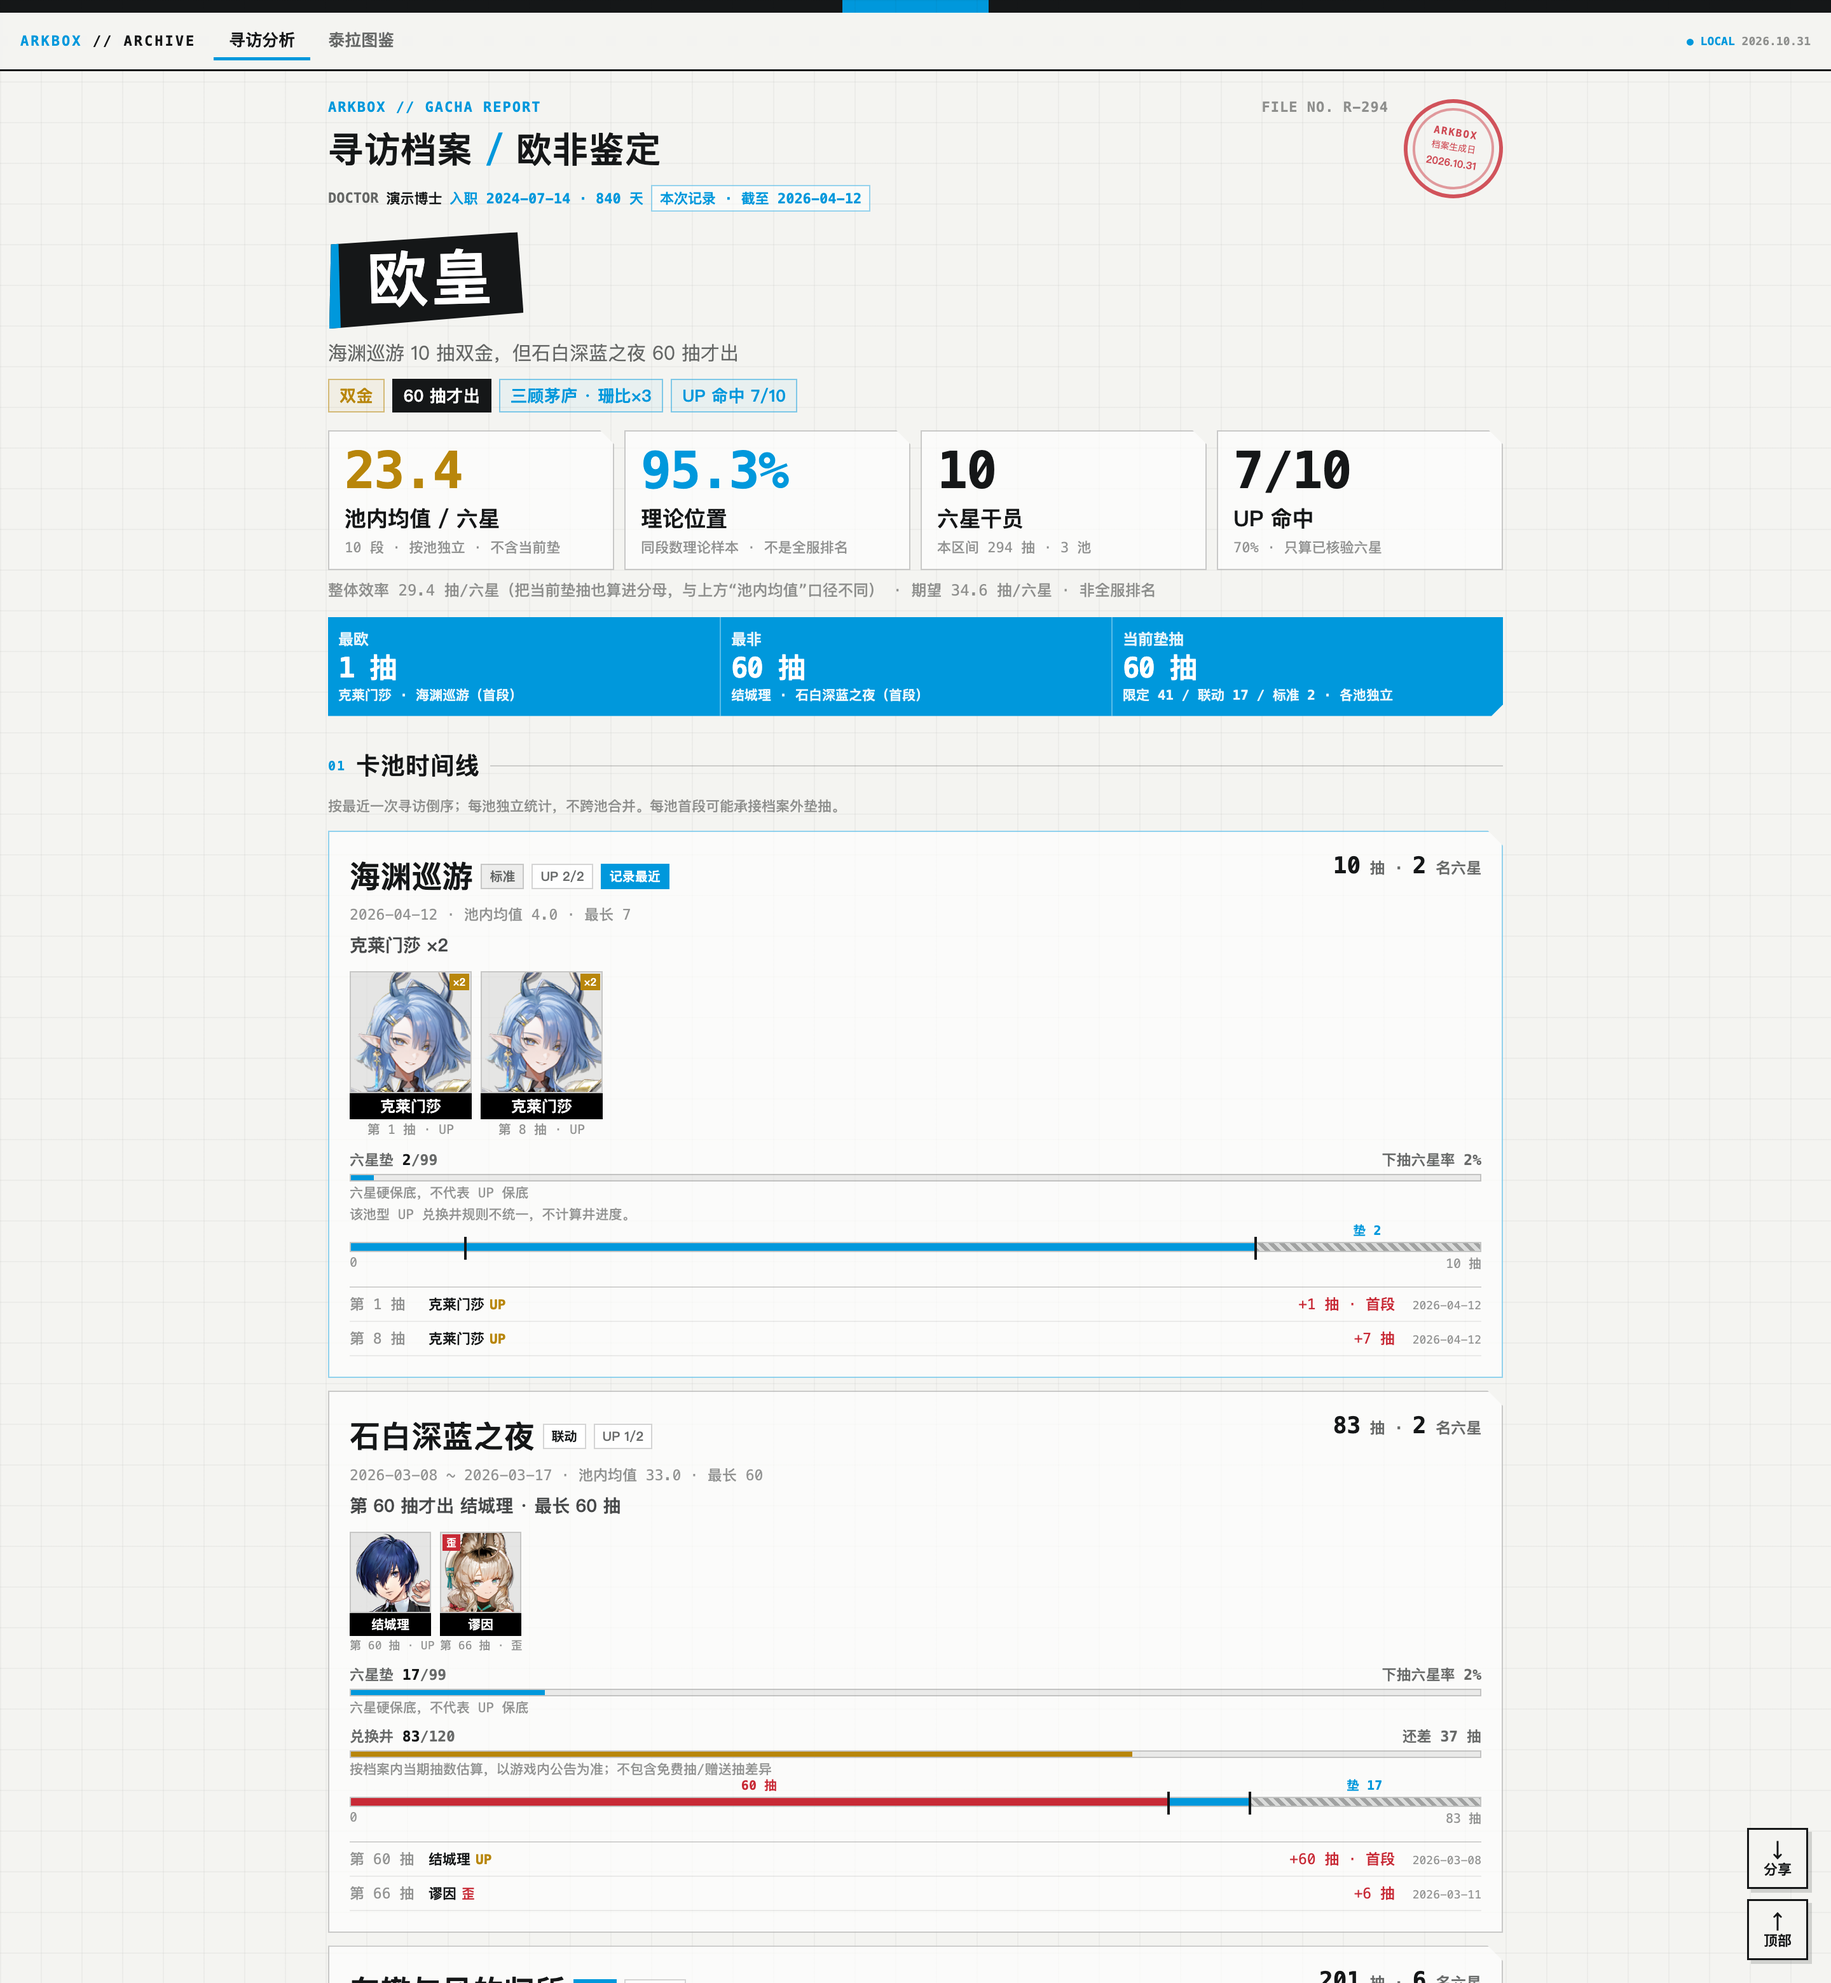
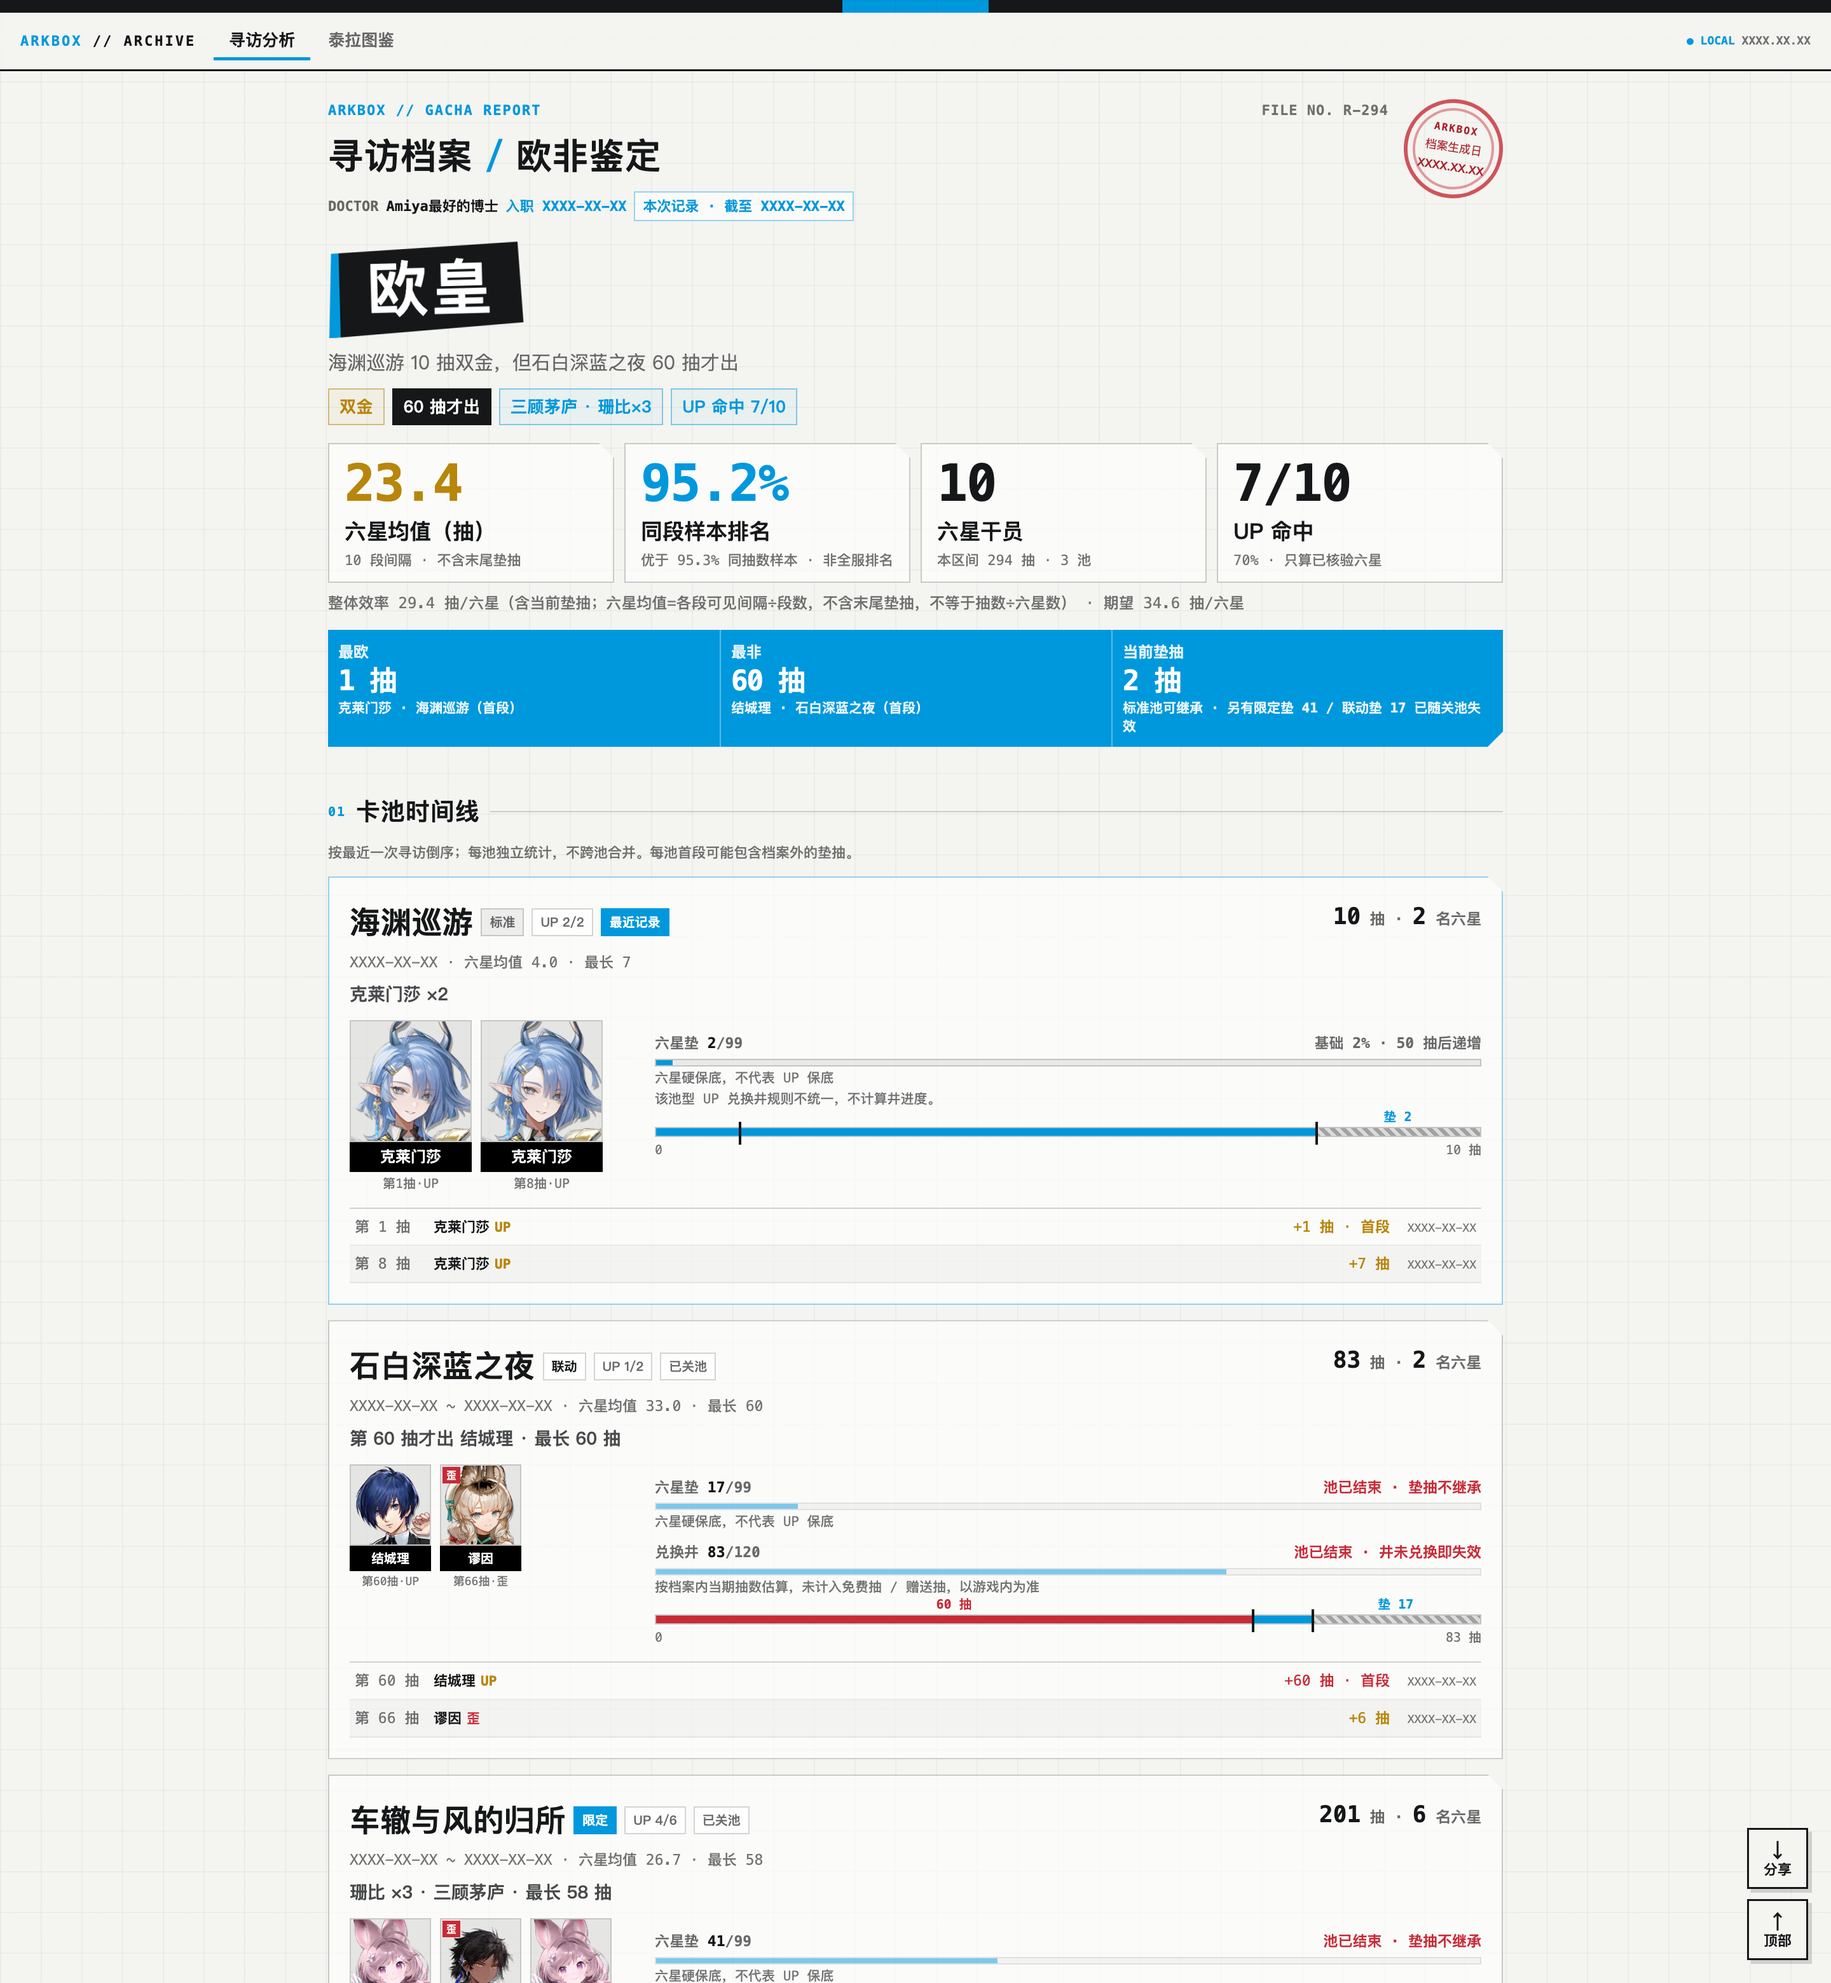
README 截图换真实档案页脱敏副本，撤 showcase，重写正文
- 两张 README 截图改为真实档案页（output/档案页.html）的脱敏副本：
  昵称 → Amiya最好的博士，全部日期（入职/时间线/截至/快照）→ XXXX-XX-XX，
  入职天数不显示；替换后三重断言（无昵称/无日期/无 UID）再截图
- 撤掉 docs/showcase.md 与四张合成图：合成 box 的泰拉地图与真实观感脱节
- 退役 tools/make_demo_images.py（全部产出已撤）；README 截图更新方法
  （脱敏 + Chrome 两条命令）记入 docs/PUBLISHING.md §7
- README 按参考仓库（dsh-guizang-design）重写：口语小标题、
  「出什么」改为命令/产出/说明表、FAQ 改短问答，119 行

diff --git a/README.md b/README.md
@@ -13,8 +13,6 @@
   <img src="docs/demo-terra.png" alt="档案页 · 泰拉图鉴" width="49%">
 </p>
 
-[海报、分享图、干员图鉴……更多玩法截图 →](docs/showcase.md)
-
 非官方玩家工具，和鹰角网络没有隶属或授权关系；**只支持国服官服**——寻访记录只有官服渠道能查，
 B 服 / 国际服用不了。代码 MIT，游戏数据和素材版权归原权利方。
 
@@ -33,11 +31,23 @@ python3 skill/arkbox/scripts/ark_gacha.py analyze \
 没登录就拿不到你的干员持有数据。扫码登录后再跑同一条命令，档案页就变成
 「寻访分析 + 泰拉图鉴」两个页签，还能导出分享图——就是上面两张截图的样子。
 
-## 它能干什么
+## 出什么
 
-- 出货了想晒：海报是 2160×2880 的 PNG，称号（欧皇、三顾茅庐、保底人……）按数据规则生成，每个数字底下标了口径，不怕人问。
-- 想知道自己欧不欧：按池子分开算，池内均值、整体效率、当前垫抽、最长间隔各是各的；「理论位置」是和理论样本比，不是全服排名；数据缺了会直接说缺，不编。
-- 想留个底：记录归档在本机 `~/.arkbox/archive/`，凭证权限 600；发出去的产物一律不带 UID，`--hide-nick` 连昵称也能隐。
+| 命令 | 产出 | 说明 |
+|---|---|---|
+| `analyze --poster --html` | 海报 PNG + 档案页 HTML | 最常用的交付：2160×2880 海报，加双页签自包含网页 |
+| `analyze --records 记录.json` | 同上 | 离线模式，不吃账号，用自己的记录文件 |
+| `ark_box.py gallery --open` | 干员图鉴页 | 按职业/星级/等级/潜能/时装筛选 |
+| `analyze --site --site-dir site` | 静态站点目录 | 发布到 Qoder Sites 的步骤见 [docs/PUBLISHING.md](docs/PUBLISHING.md) |
+
+档案页里还有这些细节：卡池时间线、称号候选切换（欧皇、三顾茅庐、保底人……）、
+分享文案一键复制、口径审计表。
+
+## 数字怎么算
+
+按池子分开统计，不跨池合并；池内均值、整体效率、当前垫抽、最长间隔各是各的，
+海报上每个数字底下都标了口径。「理论位置」是和同段数理论样本比，**不是全服排名**；
+数据缺了会直接说缺，不编。
 
 ## 开始之前
 
@@ -51,50 +61,16 @@ python3 skill/arkbox/scripts/ark_gacha.py analyze \
 - **Windows 用户注意**：命令里的 `python3` 换成 `python` 或 `py -3`，其余一致。
 - 除了上表的可选项，不装任何东西：纯标准库，所有网络请求都写在源码里（清单见 SKILL.md「网络出口清单」）。macOS / Windows / Linux 都能跑。
 
-## 安装
+## 安装和登录
 
 ```bash
-git clone https://github.com/chenzefeng0731/arkbox.git arkbox && cd arkbox
-python3 install.py
+python3 install.py                                          # 装 skill（不想装也能直接跑命令）
+python3 skill/arkbox/scripts/skland_core.py login           # 森空岛 App 扫码
+python3 skill/arkbox/scripts/ark_doctor.py                  # 环境自检
 ```
 
-不想用 git 也行：GitHub 页面绿色 Code 按钮 → Download ZIP，解压后跑同一条命令。
-
-安装器会把 skill 装进本机 Agent 的 skills 目录；探测不到就装到 `~/.arkbox/skill/arkbox`——
-Agent 读里面的 SKILL.md 就能干活，直接跑命令也行。想装到别处用 `--target <目录>`。
-
-## 登录
-
-```bash
-python3 skill/arkbox/scripts/skland_core.py login   # 森空岛 App 扫码；凭证存 ~/.arkbox/credentials.json（权限 600）
-python3 skill/arkbox/scripts/ark_doctor.py          # 环境自检：Python / 浏览器 / qrcode / 凭证 / 归档
-```
-
-凭证失效大多不用重新扫码，保存的 `hg_token` 会自动续期。官方没有承诺有效期；按社区经验，
-不改密码、不在森空岛 App 里登出或清理设备，一次登录能一直用。真失效了 doctor 会提醒，
-重新 login 就好，本地归档不受影响。
-
-## 常用命令
-
-```bash
-# 抽卡海报 + 档案页 HTML
-python3 skill/arkbox/scripts/ark_gacha.py analyze --poster --html
-
-# 离线分析自己的记录文件
-python3 skill/arkbox/scripts/ark_gacha.py analyze --records records.json --nick 博士 --poster --html
-
-# 我的干员：筛选 + 图鉴页
-python3 skill/arkbox/scripts/ark_box.py gallery --open
-```
-
-`--poster` 默认只保留海报 PNG（源 HTML 自动删除，要改源码加 `--keep-poster-source`）。
-想把档案发布成固定站点（Qoder Sites），步骤在 [docs/PUBLISHING.md](docs/PUBLISHING.md)。
-
-## 交付物长什么样
-
-- **抽卡海报**：1080×1440 逻辑尺寸、2x 渲染成 2160×2880，高分屏和社媒压缩都不糊。
-- **全能档案页**（`analyze --html`）：一个自包含 HTML。寻访分析页签里有池子时间线、称号候选、审计表；泰拉图鉴页签把全服 138 名六星画成一张六边形大陆图，点地区看收集档案和"还差谁"。右下角「分享」导出两张海报 PNG。没登录或离线跑会自动降级成单页。
-- **我的干员**：按职业/星级/等级/潜能/时装筛选，出图鉴式浏览页。
+- 不用 git 的话：GitHub 页面绿色 Code 按钮 → Download ZIP，解压后跑同一条 `install.py`。
+- 凭证存在 `~/.arkbox/credentials.json`（权限 600）。失效大多不用重新扫码，`hg_token` 会自动续期；官方没承诺有效期，社区经验是不改密码、不在森空岛 App 登出或清设备就能一直用，真失效了 doctor 会提醒。
 
 ## 给 AI Agent 用
 
@@ -108,23 +84,31 @@ python3 skill/arkbox/scripts/ark_box.py gallery --open
 - 海报 / HTML / 站点 / 图鉴都不显示 UID；UID 只存在本地凭证和归档里。想连昵称也隐掉加 `--hide-nick`，公开站点固定显示"博士"并禁止收录。
 - 原始记录只在本机归档，不上传。凭证就是账号钥匙，别分享；要删本地凭证用 `skland_core.py logout`（彻底解绑去森空岛 App 的授权管理）。
 
-## 测试与演示图复刻
+## 测试
 
 ```bash
 python3 skill/arkbox/scripts/selftest.py    # 单元与口径自测（不联网、不读凭证）
 python3 tests/e2e_check.py                  # 端到端冒烟：fixtures 全链路 + 数字与隐私断言
-python3 tools/make_demo_images.py           # 复刻 README 与 showcase 页的演示图（合成数据；需 Chrome，首次联网约 10MB）
 ```
 
 CI 在 macOS/Windows/Linux × Python 3.9/3.12 上每次提交自动跑全部测试。
 
 ## 常见问题
 
-- **会不会封号 / 盗号？** 只读官方可查接口、低频请求、不碰客户端；凭证只存本机不上传。但这不是官方工具，没人能承诺零风险，介意就别用。
-- **为什么记录不全 / 只有几个月？** 森空岛只返回官方可查窗口内的记录，不是漏了；报告里写的是"本档案区间"。
-- **平均抽数为什么和别人算的不一样？为什么没有全服排名？** 各池子分开统计、不跨池累计，池内均值/整体效率/当前垫抽/最长间隔各算各的，硬拉到一块比会失真；"理论位置"是和同抽数理论样本比，不是排名。
-- **Windows 怎么用？** `python3` 换成 `python` 或 `py -3`；出 PNG 要本机有 Chrome 系浏览器，没有也能出 HTML。
-- **能商用或二次分发吗？** 代码 MIT；游戏名称、头像、数据版权归鹰角网络等原权利方，本项目非官方、非商业。
+**会不会封号 / 盗号？**
+只读官方可查接口、低频请求、不碰客户端；凭证只存本机不上传。但这不是官方工具，没人能承诺零风险，介意就别用。
+
+**为什么记录不全 / 只有几个月？**
+森空岛只返回官方可查窗口内的记录，不是漏了；报告里写的是"本档案区间"。
+
+**平均抽数为什么和别人算的不一样？为什么没有全服排名？**
+各池子分开统计、不跨池累计，四个口径各算各的，硬拉到一块比会失真；"理论位置"是和同抽数理论样本比，不是排名。
+
+**Windows 怎么用？**
+`python3` 换成 `python` 或 `py -3`；出 PNG 要本机有 Chrome 系浏览器，没有也能出 HTML。
+
+**能商用或二次分发吗？**
+代码 MIT；游戏名称、头像、数据版权归鹰角网络等原权利方，本项目非官方、非商业。
 
 ## 已知边界
 

diff --git a/docs/PUBLISHING.md b/docs/PUBLISHING.md
@@ -57,3 +57,28 @@ grep -RnoE "UID[^<\n]{0,4}[0-9]{3,}" . --exclude-dir=.git --include="*.html"
 - `VERSION` 与 `CHANGELOG.md` 对齐。
 - GitHub Release 附 `.skill`/zip 包和 demo 截图。
 - 不要把本地 `site/` 或账号产物打进 release。
+
+## 7. README 截图更新
+
+README 的两张截图是**真实档案页的脱敏副本**（真实数据 + 昵称/日期脱敏），档案页改版后按下法重截：
+
+1. 取最新档案页（重跑 `analyze --html`，或用现成的 `output/档案页.html`）。
+2. 复制一份做脱敏：昵称换成展示昵称，日期全部打成 `XXXX-XX-XX`，入职天数一并不显示：
+
+   ```python
+   s = s.replace("<真实昵称>", "Amiya最好的博士")
+   s = s.replace("入职 <入职日期> · <N> 天", "入职 XXXX-XX-XX")
+   s = re.sub(r"\d{4}-\d{2}-\d{2}", "XXXX-XX-XX", s)
+   s = re.sub(r"\d{4}\.\d{2}\.\d{2}", "XXXX.XX.XX", s)
+   ```
+
+3. Chrome 无头截两个页签（同高视口，README 里并排才不参差）：
+
+   ```bash
+   chrome --headless --disable-gpu --hide-scrollbars --force-device-scale-factor=2 \
+     --virtual-time-budget=20000 --screenshot=docs/demo-archive.png \
+     --window-size=1440,1560 "file://<脱敏副本>#gacha"
+   # demo-terra.png 同理，URL 换成 #terra
+   ```
+
+4. 断言脱敏副本：无真实昵称、无未打码日期、无 UID 形态串，再截图。
